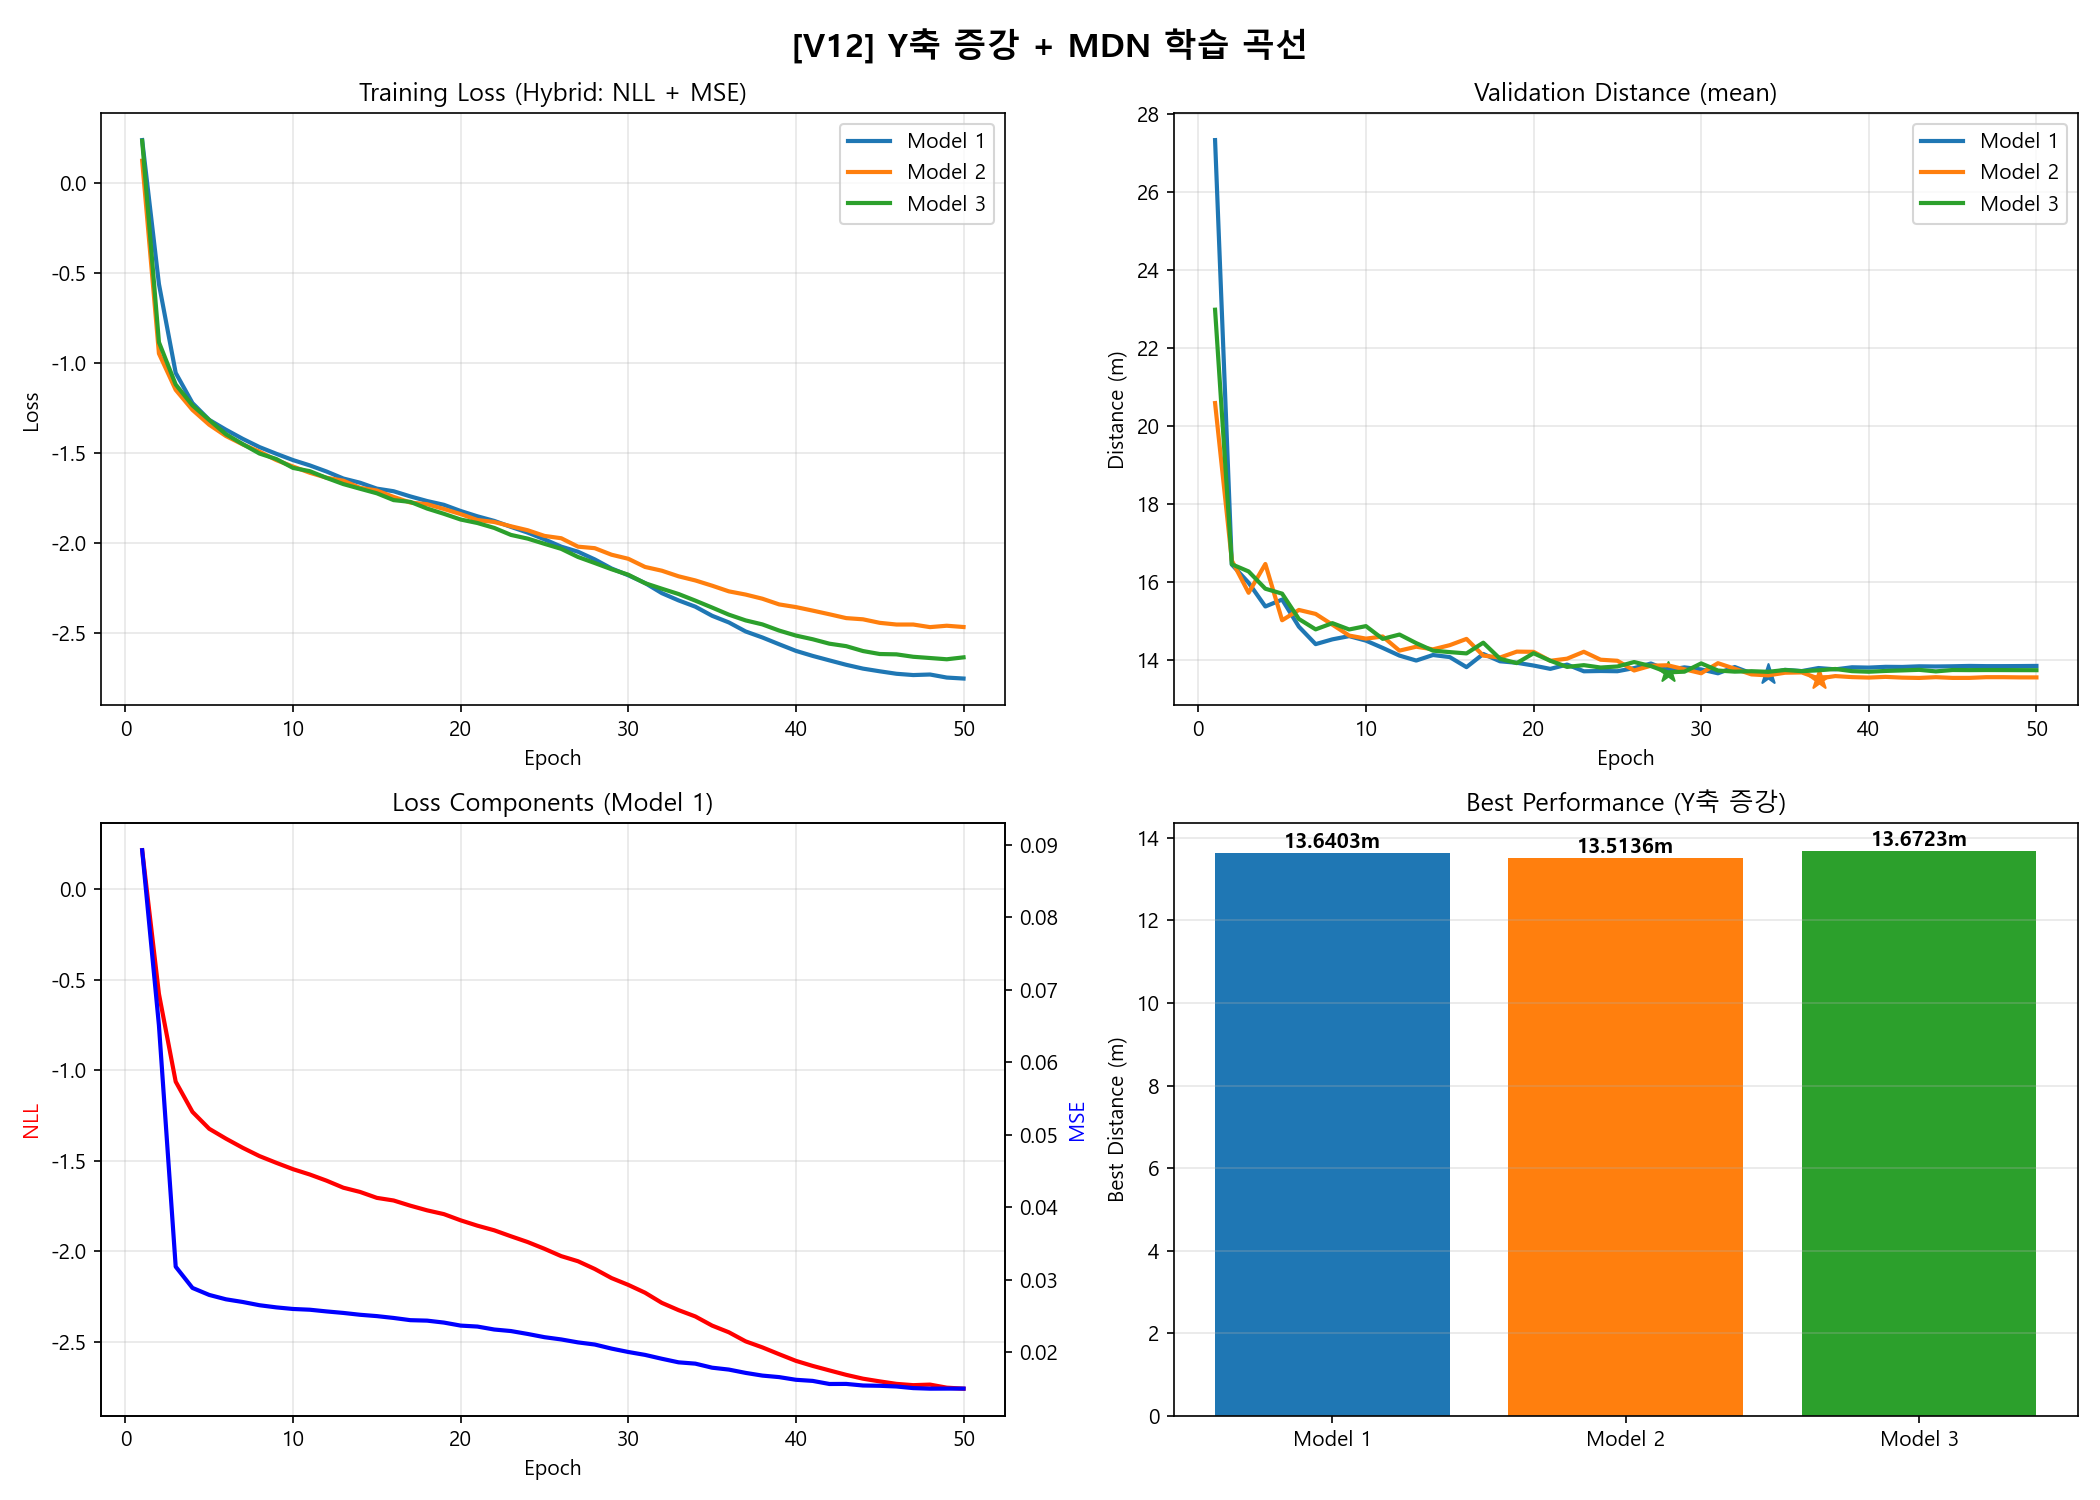
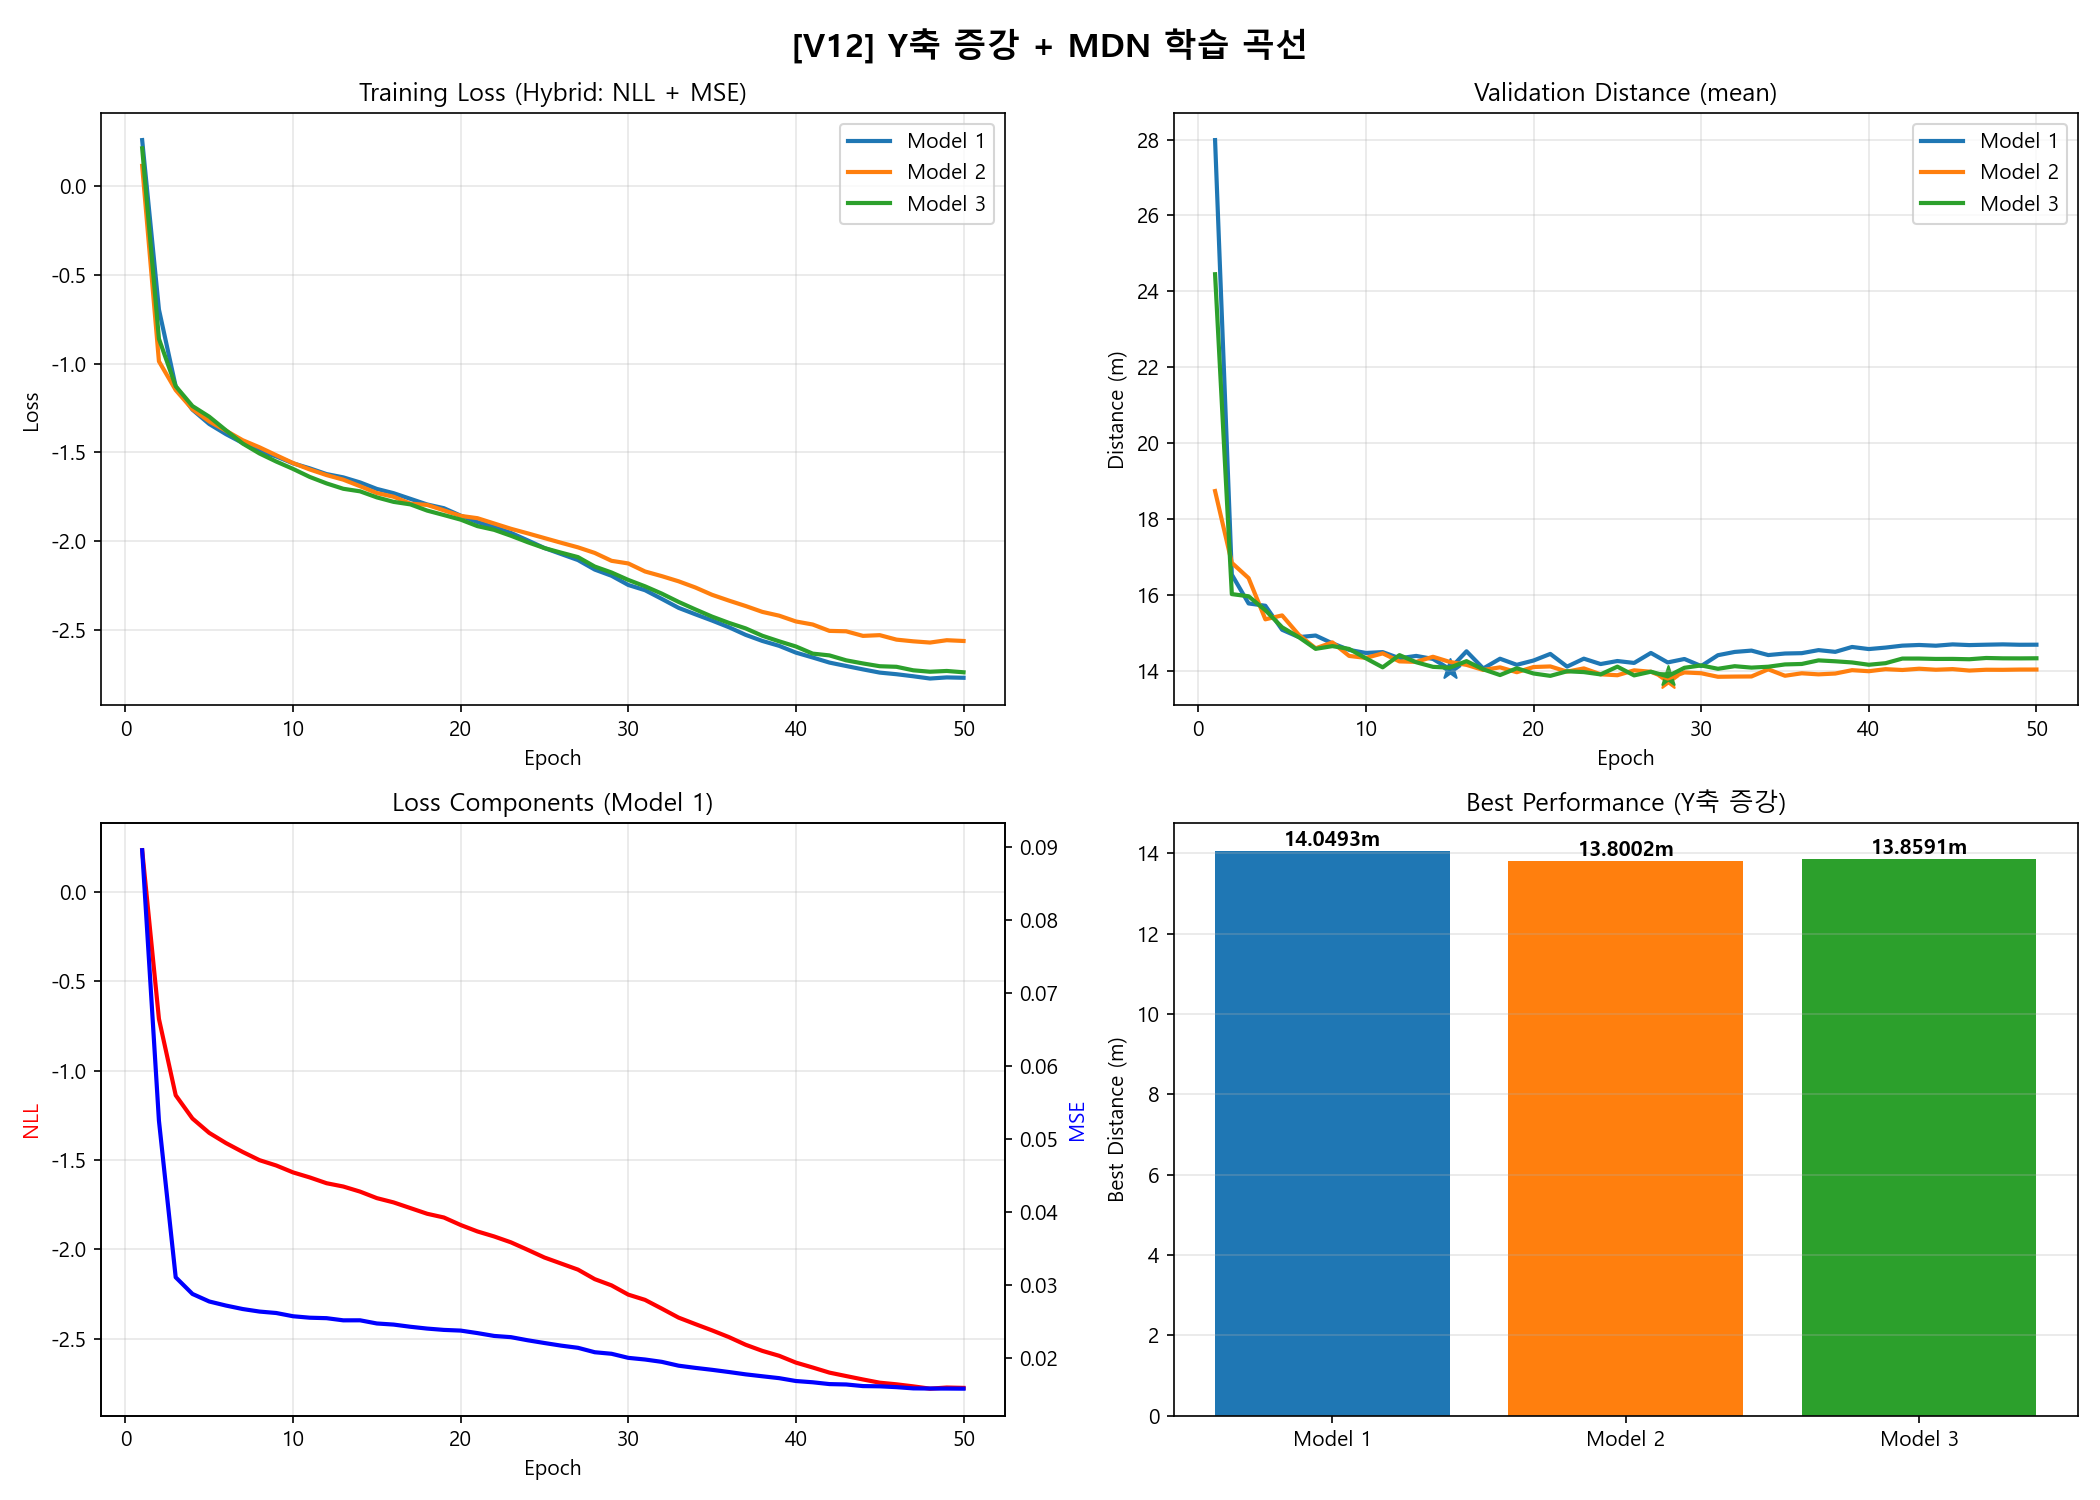
12.30 - 예측 범주 시각화

diff --git a/정주환/check_delta_distribution.py b/정주환/check_delta_distribution.py
@@ -1,0 +1,76 @@
+import pandas as pd
+import numpy as np
+import matplotlib.pyplot as plt
+
+# 데이터 로드
+train_df = pd.read_csv("open_track1/train.csv")
+
+# Delta 계산
+deltas_x = []
+deltas_y = []
+
+for name, group in train_df.groupby('game_episode'):
+    if len(group) < 2:
+        continue
+
+    last = group.iloc[-1]
+    penultimate = group.iloc[-2]
+
+    delta_x = (last['end_x'] - penultimate['end_x']) / 105.0
+    delta_y = (last['end_y'] - penultimate['end_y']) / 68.0
+
+    deltas_x.append(delta_x)
+    deltas_y.append(delta_y)
+
+deltas_x = np.array(deltas_x)
+deltas_y = np.array(deltas_y)
+
+print("="*70)
+print("Delta 분포 분석")
+print("="*70)
+print(f"\nDelta X:")
+print(f"  Mean: {deltas_x.mean():.4f}")
+print(f"  Std: {deltas_x.std():.4f}")
+print(f"  Min: {deltas_x.min():.4f}")
+print(f"  Max: {deltas_x.max():.4f}")
+print(f"  -1~1 범위 내: {((deltas_x >= -1) & (deltas_x <= 1)).mean()*100:.2f}%")
+
+print(f"\nDelta Y:")
+print(f"  Mean: {deltas_y.mean():.4f}")
+print(f"  Std: {deltas_y.std():.4f}")
+print(f"  Min: {deltas_y.min():.4f}")
+print(f"  Max: {deltas_y.max():.4f}")
+print(f"  -1~1 범위 내: {((deltas_y >= -1) & (deltas_y <= 1)).mean()*100:.2f}%")
+
+print(f"\n⚠ 범위 초과:")
+print(f"  Delta X > 1: {(deltas_x > 1).sum()} ({(deltas_x > 1).mean()*100:.2f}%)")
+print(f"  Delta X < -1: {(deltas_x < -1).sum()} ({(deltas_x < -1).mean()*100:.2f}%)")
+print(f"  Delta Y > 1: {(deltas_y > 1).sum()} ({(deltas_y > 1).mean()*100:.2f}%)")
+print(f"  Delta Y < -1: {(deltas_y < -1).sum()} ({(deltas_y < -1).mean()*100:.2f}%)")
+
+# 시각화
+fig, axes = plt.subplots(1, 2, figsize=(14, 5))
+
+axes[0].hist(deltas_x, bins=100, edgecolor='black', alpha=0.7)
+axes[0].axvline(-1, color='red', linestyle='--', label='-1 (Tanh 하한)')
+axes[0].axvline(1, color='red', linestyle='--', label='1 (Tanh 상한)')
+axes[0].set_xlabel('Delta X')
+axes[0].set_ylabel('Frequency')
+axes[0].set_title('Delta X Distribution')
+axes[0].legend()
+axes[0].grid(True, alpha=0.3)
+
+axes[1].hist(deltas_y, bins=100, edgecolor='black', alpha=0.7, color='green')
+axes[1].axvline(-1, color='red', linestyle='--', label='-1 (Tanh 하한)')
+axes[1].axvline(1, color='red', linestyle='--', label='1 (Tanh 상한)')
+axes[1].set_xlabel('Delta Y')
+axes[1].set_ylabel('Frequency')
+axes[1].set_title('Delta Y Distribution')
+axes[1].legend()
+axes[1].grid(True, alpha=0.3)
+
+plt.tight_layout()
+plt.savefig('delta_distribution_check.png', dpi=150)
+plt.show()
+
+print("\n✅ 분석 완료: delta_distribution_check.png 저장")
